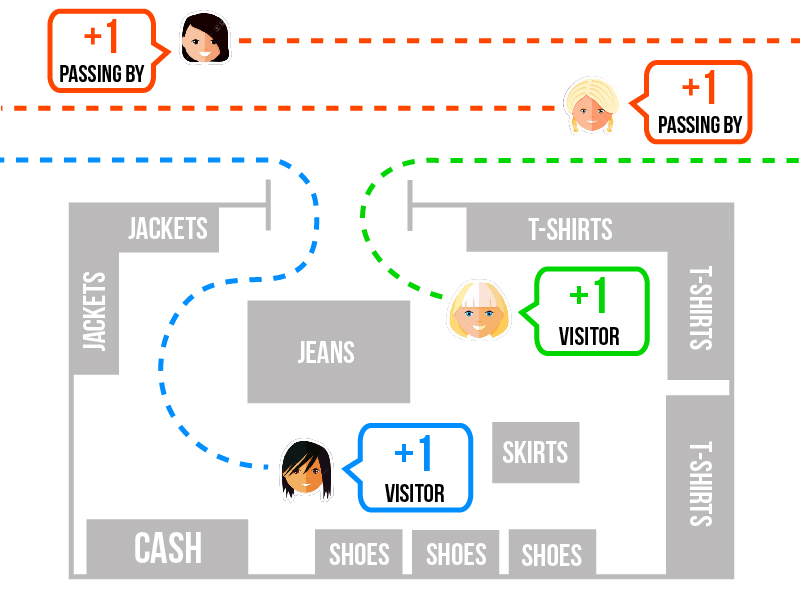
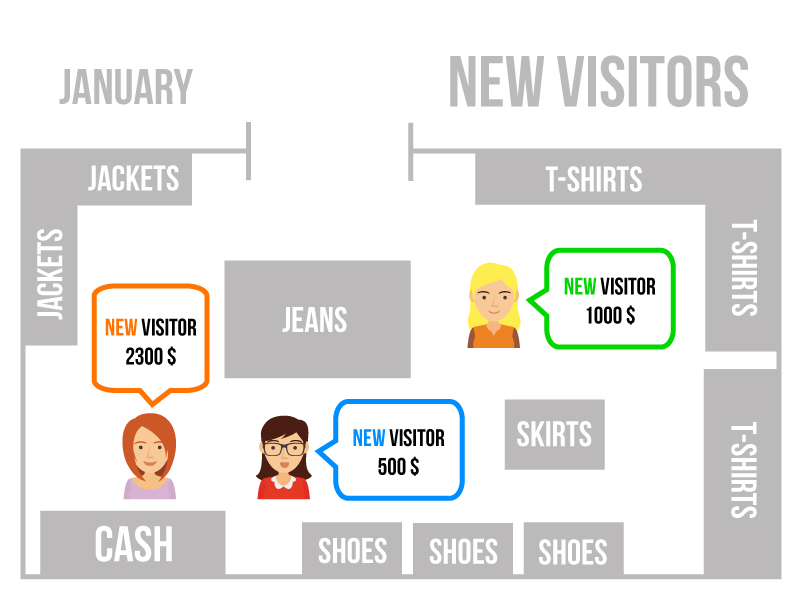
usecase #1

diff --git a/usecase1.html b/usecase1.html
@@ -58,15 +58,15 @@
             <!--Logo/-->
             <nav class="collapse navbar-collapse" id="primary-menu">
                 <ul class="nav navbar-nav navbar-right">
-                    <li class="active"><a href="#1">#1</a></li>
-                    <li><a href="#pic1">pic1</a></li>
-                    <li><a href="#2">#2</a></li>
-                    <li><a href="#pic2">pic2</a></li>
-                    <li><a href="#3">#3</a></li>
-                    <li><a href="#pic3">pic3</a></li>
-                    <li><a href="#4">#4</a></li>
-                    <li><a href="#table1">table1</a></li>
-                    <li><a href="#table2">table2</a></li>
+                    <li class="active"><a href="#1">Story</a></li>
+                    <li><a href="#pic1">Jan 1</a></li>
+                    <li><a href="#2">Jan 2</a></li>
+                    <li><a href="#pic2">Mar 1</a></li>
+                    <li><a href="#3">Mar 2</a></li>
+                    <li><a href="#pic3">May 1</a></li>
+                    <li><a href="#4">May 2</a></li>
+                    <li><a href="#table1">Campaign Revenue</a></li>
+                    <li><a href="#table2">Campaign Revenue 2</a></li>
                     <li><a href="index.html#faq-page">FAQ</a></li>
                 </ul>
             </nav>
@@ -85,10 +85,12 @@
                 </div>
                 <div class="col-lg-8 col-sm-12 text-center">
                     <div class="page-title">
-                        <h2>#1 ...</h2>
+                        <h2>#1: Revenue of Customer Retention</h2>
                         <p>
-                                Lorem ipsum dolor sit amet, consectetur adipisicing elit. Id corrupti architecto consequuntur, laborum quaerat sed nemo temporibus unde, beatae vel.
-                                Lorem ipsum dolor sit amet, consectetur adipisicing elit. Id corrupti architecto consequuntur, laborum quaerat sed nemo temporibus unde, beatae vel.
+                                Let's have several visitors: blondie, redhead, brunette, some guy and afro american woman.
+                                As store manager you want to know who of them is in your store for the first time and who of them is regular customer.
+                                With knowledge about customer retention you can compare monthly revenues and get an idea about your campaigns efficiency.
+                                
                         </p>
                     </div>
                 </div>
@@ -117,10 +119,10 @@
             <div class="row">
                 <div class="col-lg-12 text-center">
                     <div class="page-title">
-                        <h2>#2 ...</h2>
+                        <h2>January</h2>
                         <p>
-                                Lorem ipsum dolor sit amet, consectetur adipisicing elit. Id corrupti architecto consequuntur, laborum quaerat sed nemo temporibus unde, beatae vel.
-                                Lorem ipsum dolor sit amet, consectetur adipisicing elit. Id corrupti architecto consequuntur, laborum quaerat sed nemo temporibus unde, beatae vel.
+                                Blondie, redhead and brunette came into store. They bought some stuff.
+                                Blondie spent 1000$, redhead 2300$ and brunette 500$. January Revenue is 3800$.
                         </p>
                     </div>
                 </div>
@@ -133,7 +135,7 @@
         <div class="container">
             <div class="row v-center">
                 <div class="col-md-12 text-center">
-                    <img src="images/case1.jpg" alt="case1">
+                    <img src="images/case2.jpg" alt="case2">
                 </div>
             </div>
         </div>
@@ -145,10 +147,12 @@
             <div class="row">
                 <div class="col-lg-12 text-center">
                     <div class="page-title">
-                        <h2>#3 ...</h2>
+                        <h2>March</h2>
                         <p>
-                                Lorem ipsum dolor sit amet, consectetur adipisicing elit. Id corrupti architecto consequuntur, laborum quaerat sed nemo temporibus unde, beatae vel.
-                                Lorem ipsum dolor sit amet, consectetur adipisicing elit. Id corrupti architecto consequuntur, laborum quaerat sed nemo temporibus unde, beatae vel.
+                                Blondie came also in March and spent another 500$, so overall revenue of her is 1500$ now.
+                                Redhead came in March too however she did not spend any money.
+                                Plus two new customers came in March: guy with brown hair who spent 5000$ and afro american woman who spent 900$.
+                                
                         </p>
                     </div>
                 </div>
@@ -161,7 +165,7 @@
         <div class="container">
             <div class="row v-center">
                 <div class="col-md-12 text-center">
-                    <img src="images/case1.jpg" alt="case1">
+                    <img src="images/case3.jpg" alt="case3">
                 </div>
             </div>
         </div>
